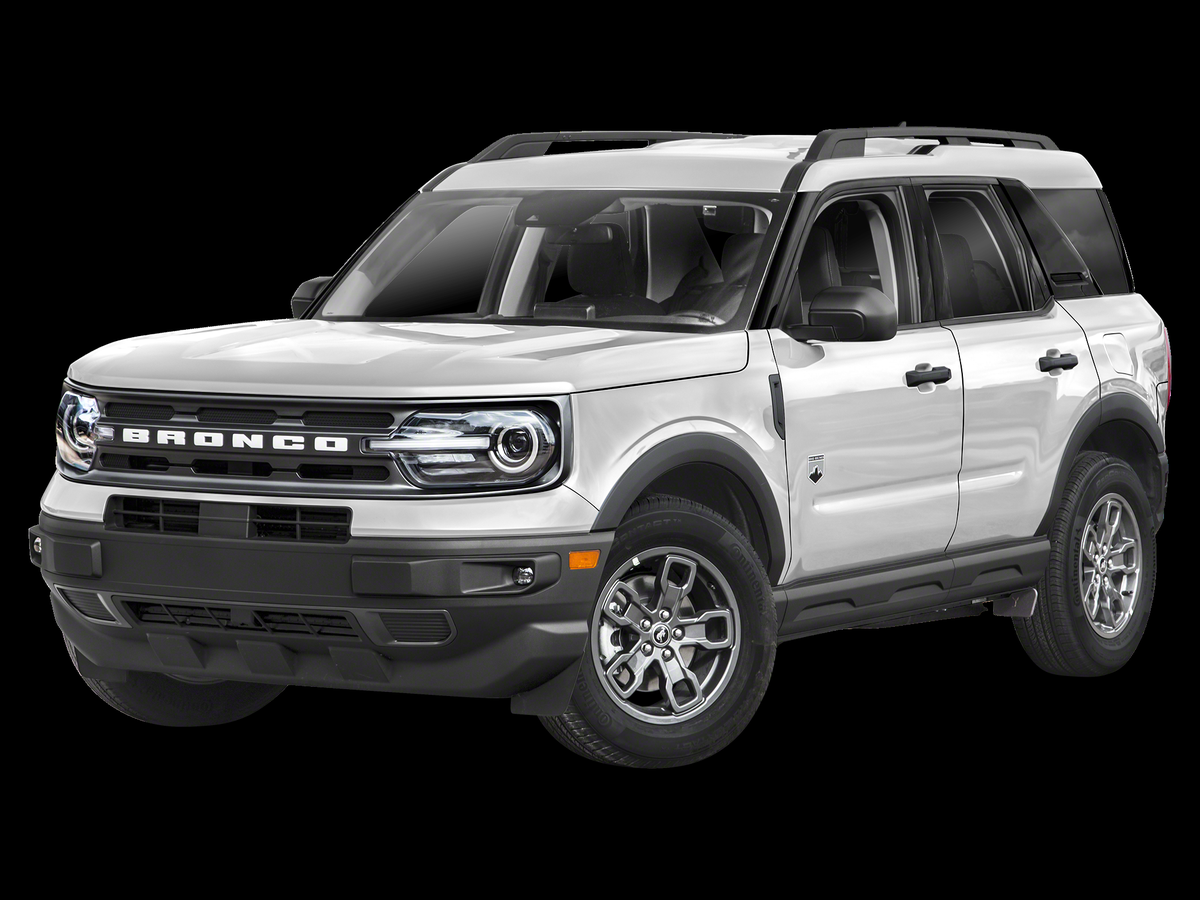
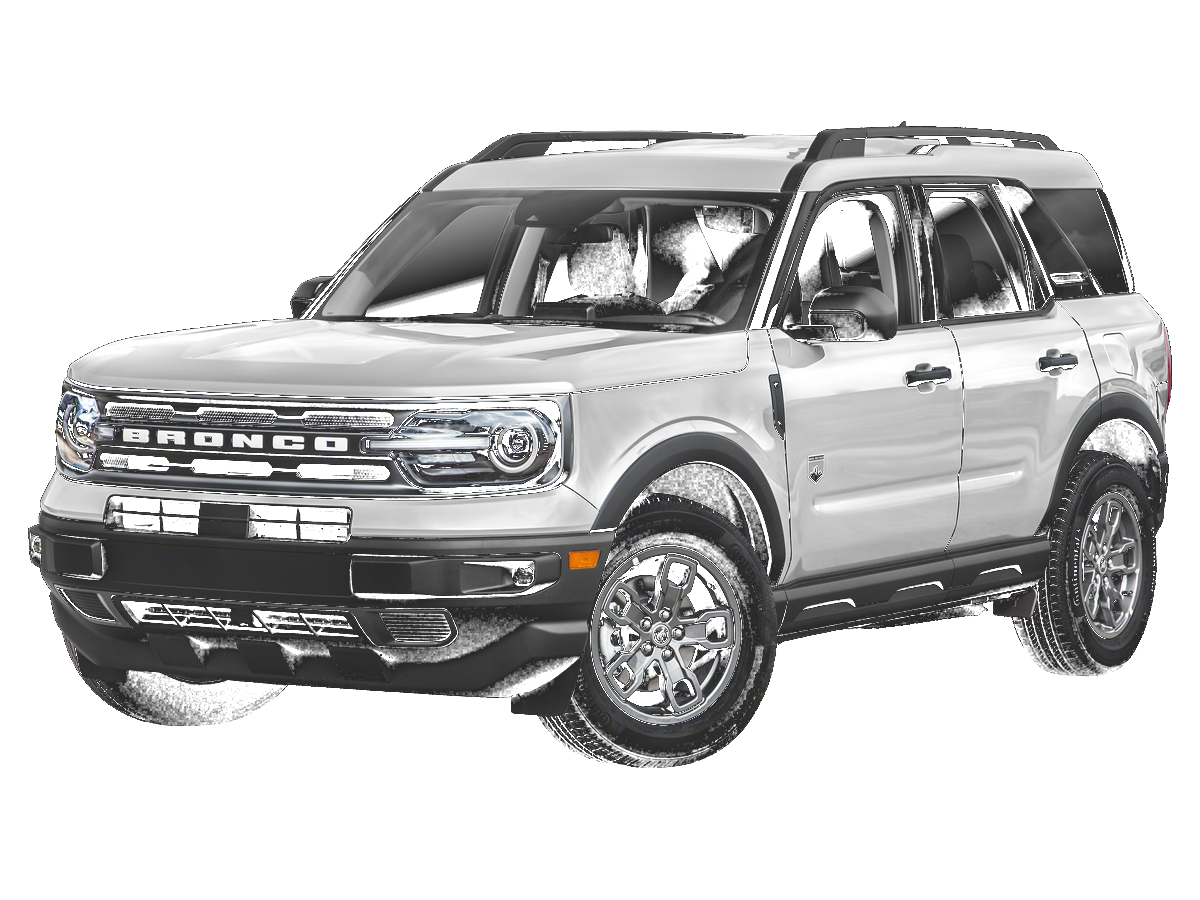
Add camera preview photos, fix Bronco bg, remove Verified text
- Remove black background from Bronco image (now transparent,
  blends into purple gradient on Report and Final pages)
- Add front center and front 3/4 driver capture photos to the
  camera HUD viewfinder on the Guided Capture page
- Camera preview includes subtle "adjusting angle" animation
  that settles when the analysis starts
- Remove "Verified" label text under shield on Final page

diff --git a/src/demo.jsx b/src/demo.jsx
@@ -2,6 +2,8 @@ import { useState, useEffect, useCallback, useRef } from "react";
 import * as THREE from "three";
 import logoSrc from "./assets/logo.png";
 import broncoSrc from "./assets/bronco.png";
+import captureFrontCenter from "./assets/capture-front-center.jpg";
+import captureFront34 from "./assets/capture-front-34.jpg";
 
 /* ═══ RESPONSIVE HOOK ═══ */
 function useIsMobile(breakpoint = 768) {
@@ -625,6 +627,8 @@ const P3 = ({ mob }) => {
         {/* Viewfinder area */}
         <div style={{ flex: 1, display: "flex", flexDirection: "column", alignItems: "center", justifyContent: "center", padding: mob ? "0 12px" : "0 24px" }}>
           <div style={{ width: "100%", maxWidth: "480px", aspectRatio: "16/10", background: "rgba(255,255,255,0.03)", borderRadius: "8px", border: `2px solid ${confirmed ? B.ok : aligning ? B.ok : "rgba(255,255,255,0.15)"}`, position: "relative", overflow: "hidden", animation: !aligning && !confirmed ? "borderPulse 2s ease infinite" : "none", transition: "border-color 0.3s ease" }}>
+            {/* Live camera preview image */}
+            {(hudIdx === 0 || hudIdx === 1) && <img src={hudIdx === 0 ? captureFrontCenter : captureFront34} alt="" style={{ position: "absolute", inset: 0, width: "100%", height: "100%", objectFit: "cover", opacity: confirmed ? 1 : 0.85, transition: "all 0.5s ease", animation: !aligning && !confirmed ? "cameraAdjust 3s ease-in-out infinite" : aligning ? "cameraSettle 0.8s ease forwards" : "none" }} />}
             <Corner pos="tl" /><Corner pos="tr" /><Corner pos="bl" /><Corner pos="br" />
             {/* Crosshair */}
             {!aligning && !confirmed && <>
@@ -1030,9 +1034,7 @@ const P7 = ({ go, mob }) => {
             }}>
               <img src={logoSrc} alt="Verified" style={{ width: mob ? 34 : 42, height: mob ? 34 : 42, borderRadius: "8px", objectFit: "contain" }} />
             </div>
-            {shieldPinned && <div style={{ textAlign: "center", marginTop: "4px", animation: "fadeIn 0.5s ease 0.3s both" }}>
-              <span style={{ fontSize: "9px", fontWeight: 700, color: "#fff", textTransform: "uppercase", letterSpacing: "1px", textShadow: "0 1px 4px rgba(0,0,0,0.5)" }}>Verified</span>
-            </div>}
+
           </div>
         )}
       </div>
@@ -1061,7 +1063,7 @@ export default function App() {
   const Cur = STEPS[step];
   return (
     <div style={{ width: "100vw", height: "100vh", background: B.pageBg, fontFamily: "'Inter',system-ui,sans-serif", color: B.g900, display: "flex", flexDirection: "column", overflowX: "hidden" }}>
-      <style>{`@keyframes tc{50%{opacity:0}} @keyframes su{from{opacity:0;transform:translateY(8px)}to{opacity:1;transform:translateY(0)}} @keyframes pulse{0%,100%{opacity:1;transform:scale(1)}50%{opacity:.5;transform:scale(.6)}} @keyframes spin{to{transform:rotate(360deg)}} @keyframes fadeIn{from{opacity:0}to{opacity:1}} @keyframes slideInRight{from{opacity:0;transform:translateX(30px)}to{opacity:1;transform:translateX(0)}} @keyframes slideInLeft{from{opacity:0;transform:translateX(-30px)}to{opacity:1;transform:translateX(0)}} @keyframes scaleIn{from{opacity:0;transform:scale(.95)}to{opacity:1;transform:scale(1)}} @keyframes scanLine{0%{top:0;opacity:0}10%{opacity:1}90%{opacity:1}100%{top:100%;opacity:0}} @keyframes borderPulse{0%,100%{border-color:rgba(92,0,153,0.3)}50%{border-color:rgba(92,0,153,1)}} @keyframes shimmer{from{background-position:-200% 0}to{background-position:200% 0}} @keyframes countUp{from{opacity:0;transform:translateY(10px)}to{opacity:1;transform:translateY(0)}} [data-hover="card"]{transition:all 0.2s ease} [data-hover="card"]:hover{transform:translateY(-2px);box-shadow:0 4px 12px rgba(0,0,0,0.1) !important} [data-hover="btn"]{transition:all 0.15s ease} [data-hover="btn"]:hover{transform:translateY(-1px);filter:brightness(1.08)} * {box-sizing:border-box;margin:0;padding:0}`}</style>
+      <style>{`@keyframes tc{50%{opacity:0}} @keyframes su{from{opacity:0;transform:translateY(8px)}to{opacity:1;transform:translateY(0)}} @keyframes pulse{0%,100%{opacity:1;transform:scale(1)}50%{opacity:.5;transform:scale(.6)}} @keyframes spin{to{transform:rotate(360deg)}} @keyframes fadeIn{from{opacity:0}to{opacity:1}} @keyframes slideInRight{from{opacity:0;transform:translateX(30px)}to{opacity:1;transform:translateX(0)}} @keyframes slideInLeft{from{opacity:0;transform:translateX(-30px)}to{opacity:1;transform:translateX(0)}} @keyframes scaleIn{from{opacity:0;transform:scale(.95)}to{opacity:1;transform:scale(1)}} @keyframes scanLine{0%{top:0;opacity:0}10%{opacity:1}90%{opacity:1}100%{top:100%;opacity:0}} @keyframes borderPulse{0%,100%{border-color:rgba(92,0,153,0.3)}50%{border-color:rgba(92,0,153,1)}} @keyframes cameraAdjust{0%{transform:scale(1.08) translate(-1%,-1%)}25%{transform:scale(1.06) translate(1%,0.5%)}50%{transform:scale(1.1) translate(0.5%,-0.5%)}75%{transform:scale(1.07) translate(-0.5%,0.8%)}100%{transform:scale(1.08) translate(-1%,-1%)}} @keyframes cameraSettle{from{transform:scale(1.06) translate(0.5%,0.3%)}to{transform:scale(1.02) translate(0,0)}} @keyframes shimmer{from{background-position:-200% 0}to{background-position:200% 0}} @keyframes countUp{from{opacity:0;transform:translateY(10px)}to{opacity:1;transform:translateY(0)}} [data-hover="card"]{transition:all 0.2s ease} [data-hover="card"]:hover{transform:translateY(-2px);box-shadow:0 4px 12px rgba(0,0,0,0.1) !important} [data-hover="btn"]{transition:all 0.15s ease} [data-hover="btn"]:hover{transform:translateY(-1px);filter:brightness(1.08)} * {box-sizing:border-box;margin:0;padding:0}`}</style>
       <header style={{ display: "flex", alignItems: "center", justifyContent: "space-between", padding: mob ? "10px 14px" : "14px 24px", background: B.white, borderBottom: `1px solid ${B.g200}`, flexShrink: 0, flexWrap: mob ? "wrap" : "nowrap", gap: mob ? "6px" : "0" }}>
         <div style={{ display: "flex", alignItems: "center", gap: mob ? "6px" : "10px" }}>
           <img src={logoSrc} alt="VeriBuy" style={{ width: mob ? 24 : 30, height: mob ? 24 : 30, borderRadius: "8px", objectFit: "contain" }} />
